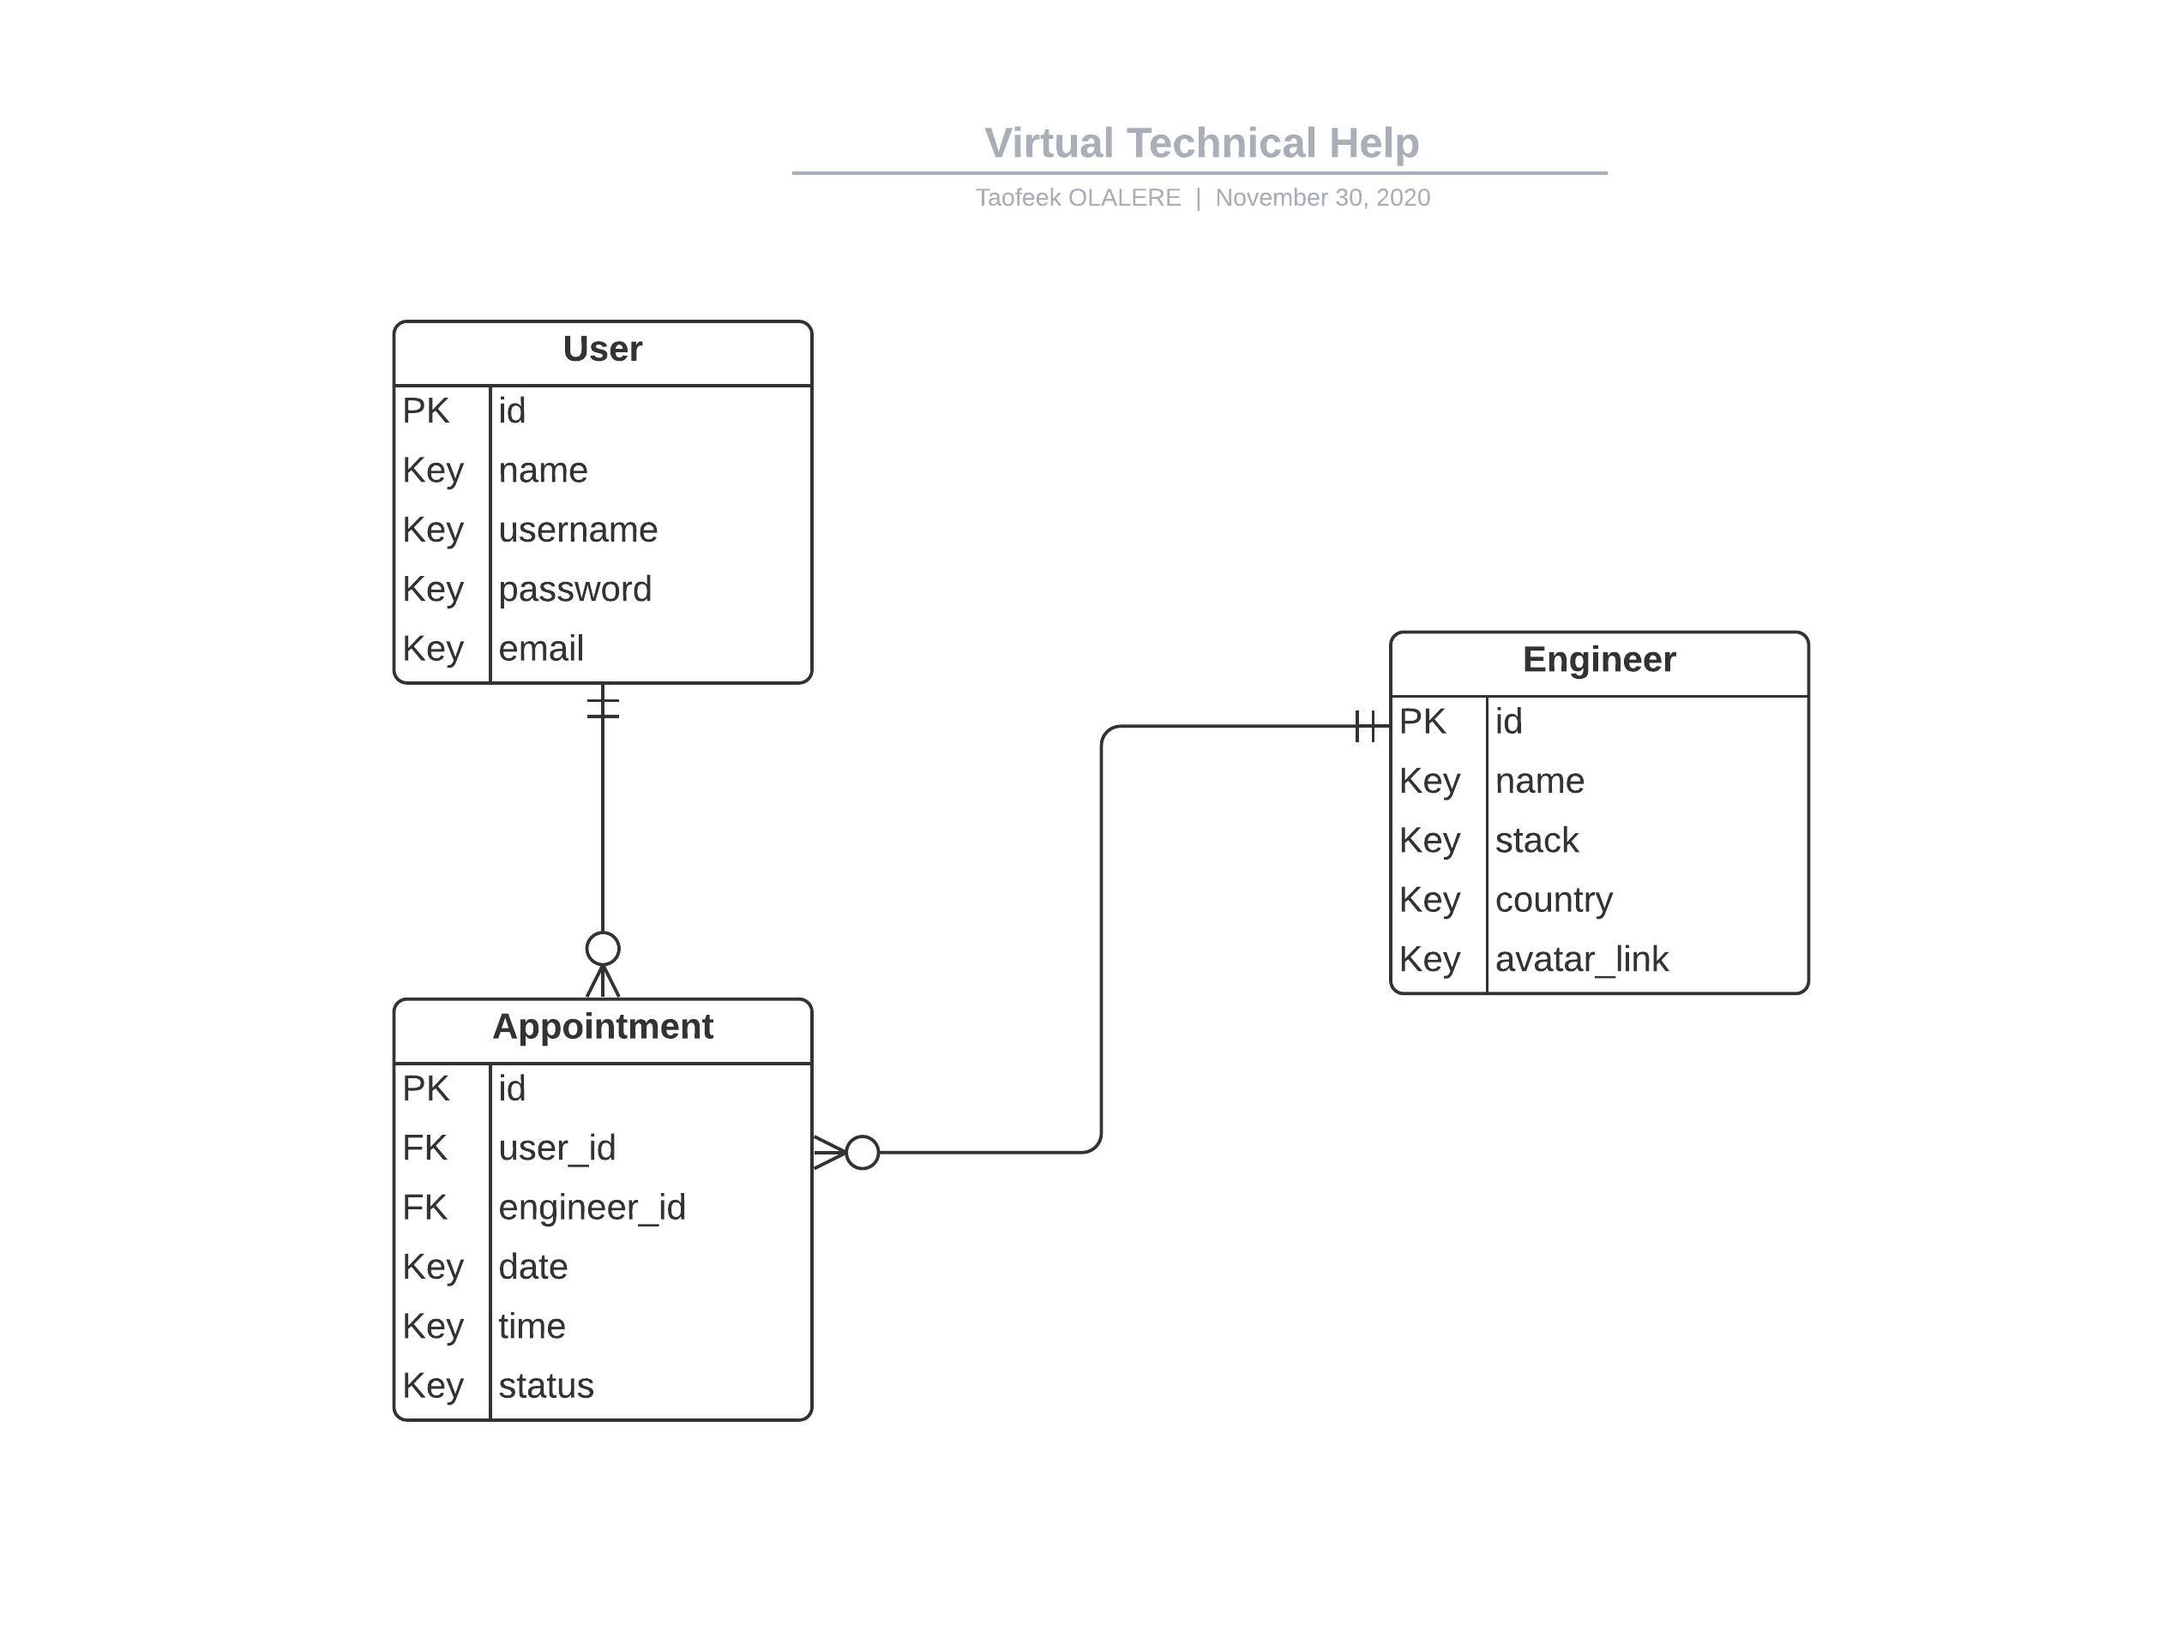
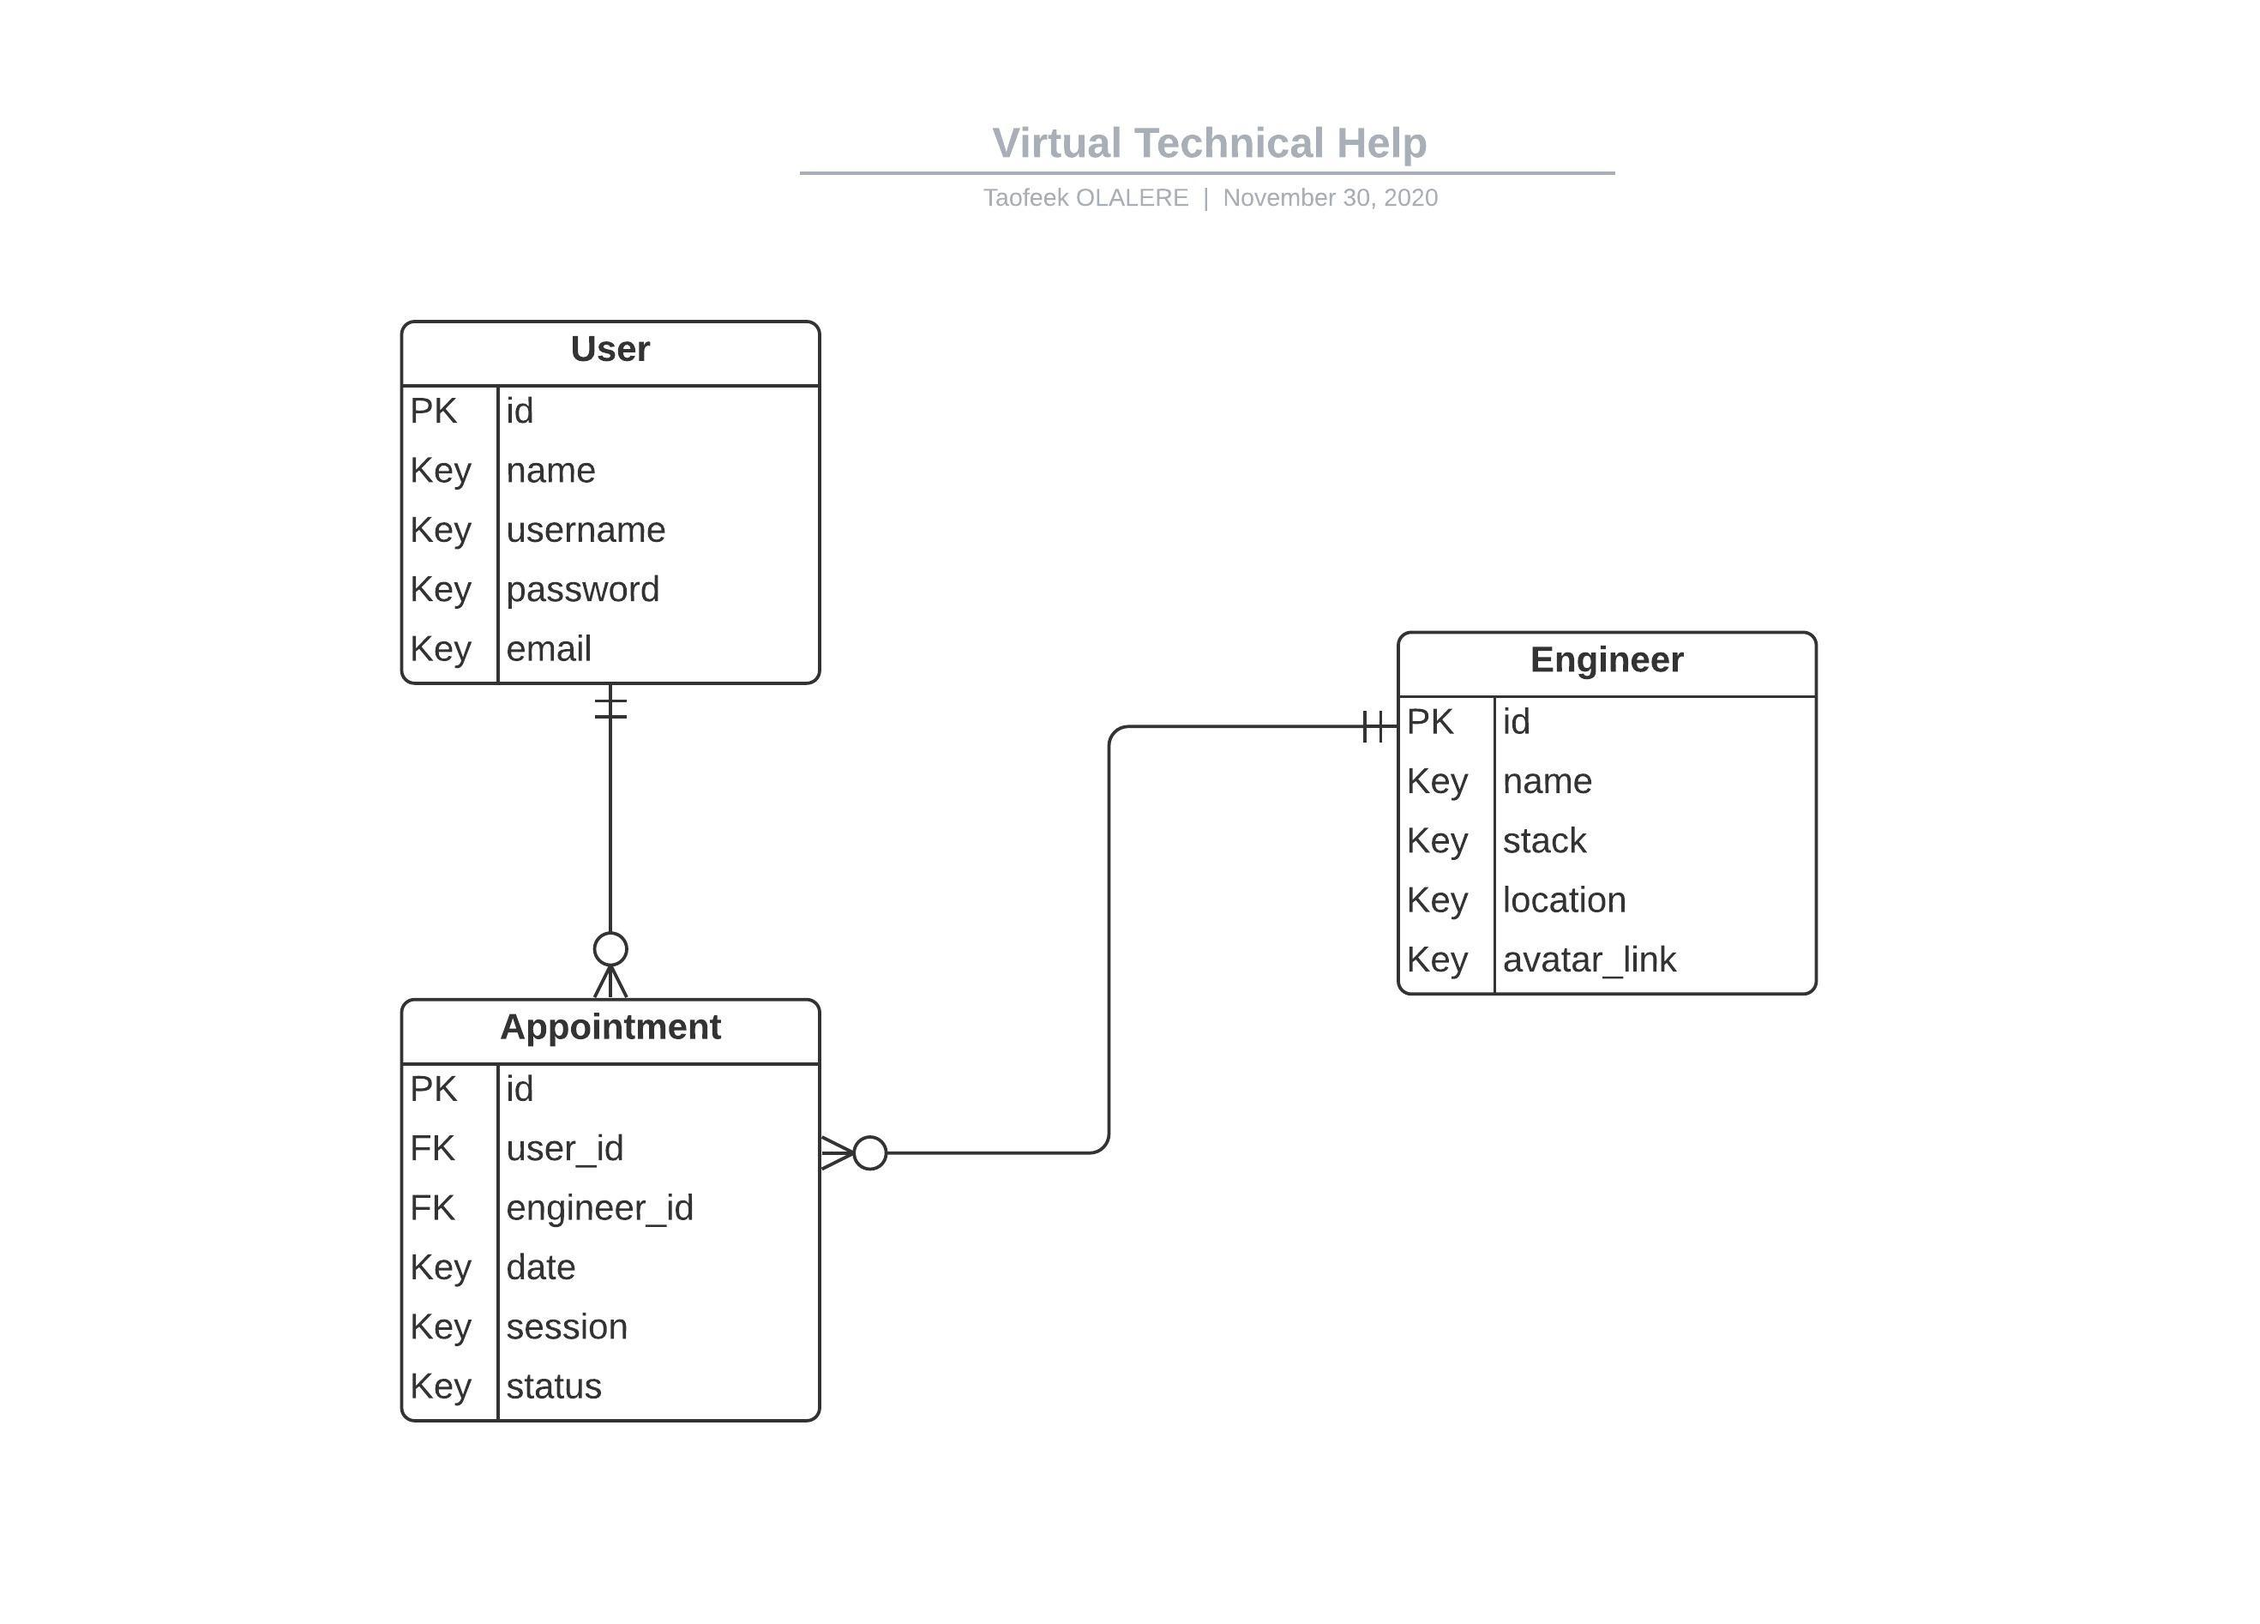
Add engineer and appointment models

diff --git a/spec/spec_helper.rb b/spec/spec_helper.rb
@@ -1,0 +1,96 @@
+# This file was generated by the `rails generate rspec:install` command. Conventionally, all
+# specs live under a `spec` directory, which RSpec adds to the `$LOAD_PATH`.
+# The generated `.rspec` file contains `--require spec_helper` which will cause
+# this file to always be loaded, without a need to explicitly require it in any
+# files.
+#
+# Given that it is always loaded, you are encouraged to keep this file as
+# light-weight as possible. Requiring heavyweight dependencies from this file
+# will add to the boot time of your test suite on EVERY test run, even for an
+# individual file that may not need all of that loaded. Instead, consider making
+# a separate helper file that requires the additional dependencies and performs
+# the additional setup, and require it from the spec files that actually need
+# it.
+#
+# See http://rubydoc.info/gems/rspec-core/RSpec/Core/Configuration
+RSpec.configure do |config|
+  # rspec-expectations config goes here. You can use an alternate
+  # assertion/expectation library such as wrong or the stdlib/minitest
+  # assertions if you prefer.
+  config.expect_with :rspec do |expectations|
+    # This option will default to `true` in RSpec 4. It makes the `description`
+    # and `failure_message` of custom matchers include text for helper methods
+    # defined using `chain`, e.g.:
+    #     be_bigger_than(2).and_smaller_than(4).description
+    #     # => "be bigger than 2 and smaller than 4"
+    # ...rather than:
+    #     # => "be bigger than 2"
+    expectations.include_chain_clauses_in_custom_matcher_descriptions = true
+  end
+
+  # rspec-mocks config goes here. You can use an alternate test double
+  # library (such as bogus or mocha) by changing the `mock_with` option here.
+  config.mock_with :rspec do |mocks|
+    # Prevents you from mocking or stubbing a method that does not exist on
+    # a real object. This is generally recommended, and will default to
+    # `true` in RSpec 4.
+    mocks.verify_partial_doubles = true
+  end
+
+  # This option will default to `:apply_to_host_groups` in RSpec 4 (and will
+  # have no way to turn it off -- the option exists only for backwards
+  # compatibility in RSpec 3). It causes shared context metadata to be
+  # inherited by the metadata hash of host groups and examples, rather than
+  # triggering implicit auto-inclusion in groups with matching metadata.
+  config.shared_context_metadata_behavior = :apply_to_host_groups
+
+# The settings below are suggested to provide a good initial experience
+# with RSpec, but feel free to customize to your heart's content.
+=begin
+  # This allows you to limit a spec run to individual examples or groups
+  # you care about by tagging them with `:focus` metadata. When nothing
+  # is tagged with `:focus`, all examples get run. RSpec also provides
+  # aliases for `it`, `describe`, and `context` that include `:focus`
+  # metadata: `fit`, `fdescribe` and `fcontext`, respectively.
+  config.filter_run_when_matching :focus
+
+  # Allows RSpec to persist some state between runs in order to support
+  # the `--only-failures` and `--next-failure` CLI options. We recommend
+  # you configure your source control system to ignore this file.
+  config.example_status_persistence_file_path = "spec/examples.txt"
+
+  # Limits the available syntax to the non-monkey patched syntax that is
+  # recommended. For more details, see:
+  #   - http://rspec.info/blog/2012/06/rspecs-new-expectation-syntax/
+  #   - http://www.teaisaweso.me/blog/2013/05/27/rspecs-new-message-expectation-syntax/
+  #   - http://rspec.info/blog/2014/05/notable-changes-in-rspec-3/#zero-monkey-patching-mode
+  config.disable_monkey_patching!
+
+  # Many RSpec users commonly either run the entire suite or an individual
+  # file, and it's useful to allow more verbose output when running an
+  # individual spec file.
+  if config.files_to_run.one?
+    # Use the documentation formatter for detailed output,
+    # unless a formatter has already been configured
+    # (e.g. via a command-line flag).
+    config.default_formatter = "doc"
+  end
+
+  # Print the 10 slowest examples and example groups at the
+  # end of the spec run, to help surface which specs are running
+  # particularly slow.
+  config.profile_examples = 10
+
+  # Run specs in random order to surface order dependencies. If you find an
+  # order dependency and want to debug it, you can fix the order by providing
+  # the seed, which is printed after each run.
+  #     --seed 1234
+  config.order = :random
+
+  # Seed global randomization in this process using the `--seed` CLI option.
+  # Setting this allows you to use `--seed` to deterministically reproduce
+  # test failures related to randomization by passing the same `--seed` value
+  # as the one that triggered the failure.
+  Kernel.srand config.seed
+=end
+end

diff --git a/spec/rails_helper.rb b/spec/rails_helper.rb
@@ -1,0 +1,90 @@
+# This file is copied to spec/ when you run 'rails generate rspec:install'
+require 'spec_helper'
+ENV['RAILS_ENV'] ||= 'test'
+
+require File.expand_path('../config/environment', __dir__)
+
+# require database cleaner at the top level
+require 'database_cleaner'
+
+# configure shoulda matchers to use rspec as the test framework and full matcher libraries for rails
+Shoulda::Matchers.configure do |config|
+  config.integrate do |with|
+    with.test_framework :rspec
+    with.library :rails
+  end
+end
+
+# Prevent database truncation if the environment is production
+abort('The Rails environment is running in production mode!') if Rails.env.production?
+require 'rspec/rails'
+# Add additional requires below this line. Rails is not loaded until this point!
+
+# Requires supporting ruby files with custom matchers and macros, etc, in
+# spec/support/ and its subdirectories. Files matching `spec/**/*_spec.rb` are
+# run as spec files by default. This means that files in spec/support that end
+# in _spec.rb will both be required and run as specs, causing the specs to be
+# run twice. It is recommended that you do not name files matching this glob to
+# end with _spec.rb. You can configure this pattern with the --pattern
+# option on the command line or in ~/.rspec, .rspec or `.rspec-local`.
+#
+# The following line is provided for convenience purposes. It has the downside
+# of increasing the boot-up time by auto-requiring all files in the support
+# directory. Alternatively, in the individual `*_spec.rb` files, manually
+# require only the support files necessary.
+#
+# Dir[Rails.root.join('spec', 'support', '**', '*.rb')].each { |f| require f }
+
+# Checks for pending migrations and applies them before tests are run.
+# If you are not using ActiveRecord, you can remove these lines.
+begin
+  ActiveRecord::Migration.maintain_test_schema!
+rescue ActiveRecord::PendingMigrationError => e
+  puts e.to_s.strip
+  exit 1
+end
+RSpec.configure do |config|
+  # Remove this line if you're not using ActiveRecord or ActiveRecord fixtures
+  config.fixture_path = "#{::Rails.root}/spec/fixtures"
+
+  # add `FactoryBot` methods
+  config.include FactoryBot::Syntax::Methods
+
+  # start by truncating all the tables but then use the faster transaction strategy the rest of the time.
+  config.before(:suite) do
+    DatabaseCleaner.clean_with(:truncation)
+    DatabaseCleaner.strategy = :transaction
+  end
+
+  # start the transaction strategy as examples are run
+  config.around(:each) do |example|
+    DatabaseCleaner.cleaning do
+      example.run
+    end
+  end
+
+  # If you're not using ActiveRecord, or you'd prefer not to run each of your
+  # examples within a transaction, remove the following line or assign false
+  # instead of true.
+  config.use_transactional_fixtures = true
+
+  # RSpec Rails can automatically mix in different behaviours to your tests
+  # based on their file location, for example enabling you to call `get` and
+  # `post` in specs under `spec/controllers`.
+  #
+  # You can disable this behaviour by removing the line below, and instead
+  # explicitly tag your specs with their type, e.g.:
+  #
+  #     RSpec.describe UsersController, :type => :controller do
+  #       # ...
+  #     end
+  #
+  # The different available types are documented in the features, such as in
+  # https://relishapp.com/rspec/rspec-rails/docs
+  config.infer_spec_type_from_file_location!
+
+  # Filter lines from Rails gems in backtraces.
+  config.filter_rails_from_backtrace!
+  # arbitrary gems may also be filtered via:
+  # config.filter_gems_from_backtrace("gem name")
+end

diff --git a/db/schema.rb b/db/schema.rb
@@ -10,10 +10,31 @@
 #
 # It's strongly recommended that you check this file into your version control system.
 
-ActiveRecord::Schema.define(version: 2020_11_30_145438) do
+ActiveRecord::Schema.define(version: 2020_11_30_184537) do
 
   # These are extensions that must be enabled in order to support this database
   enable_extension "plpgsql"
+
+  create_table "appointments", force: :cascade do |t|
+    t.date "date"
+    t.string "session"
+    t.string "status"
+    t.bigint "user_id", null: false
+    t.bigint "engineer_id", null: false
+    t.datetime "created_at", precision: 6, null: false
+    t.datetime "updated_at", precision: 6, null: false
+    t.index ["engineer_id"], name: "index_appointments_on_engineer_id"
+    t.index ["user_id"], name: "index_appointments_on_user_id"
+  end
+
+  create_table "engineers", force: :cascade do |t|
+    t.string "name"
+    t.string "stack"
+    t.string "location"
+    t.string "avatar_link"
+    t.datetime "created_at", precision: 6, null: false
+    t.datetime "updated_at", precision: 6, null: false
+  end
 
   create_table "users", force: :cascade do |t|
     t.string "name"
@@ -24,4 +45,6 @@ ActiveRecord::Schema.define(version: 2020_11_30_145438) do
     t.datetime "updated_at", precision: 6, null: false
   end
 
+  add_foreign_key "appointments", "engineers"
+  add_foreign_key "appointments", "users"
 end

diff --git a/db/migrate/20201130184537_create_appointments.rb b/db/migrate/20201130184537_create_appointments.rb
@@ -1,0 +1,13 @@
+class CreateAppointments < ActiveRecord::Migration[6.0]
+  def change
+    create_table :appointments do |t|
+      t.date :date
+      t.string :session
+      t.string :status
+      t.references :user, null: false, foreign_key: true
+      t.references :engineer, null: false, foreign_key: true
+
+      t.timestamps
+    end
+  end
+end

diff --git a/db/migrate/20201130184216_create_engineers.rb b/db/migrate/20201130184216_create_engineers.rb
@@ -1,0 +1,12 @@
+class CreateEngineers < ActiveRecord::Migration[6.0]
+  def change
+    create_table :engineers do |t|
+      t.string :name
+      t.string :stack
+      t.string :location
+      t.string :avatar_link
+
+      t.timestamps
+    end
+  end
+end

diff --git a/spec/models/appointment_spec.rb b/spec/models/appointment_spec.rb
@@ -1,0 +1,5 @@
+require 'rails_helper'
+
+RSpec.describe Appointment, type: :model do
+  pending "add some examples to (or delete) #{__FILE__}"
+end

diff --git a/spec/models/engineer_spec.rb b/spec/models/engineer_spec.rb
@@ -1,0 +1,5 @@
+require 'rails_helper'
+
+RSpec.describe Engineer, type: :model do
+  pending "add some examples to (or delete) #{__FILE__}"
+end

diff --git a/spec/models/user_spec.rb b/spec/models/user_spec.rb
@@ -1,0 +1,5 @@
+require 'rails_helper'
+
+RSpec.describe User, type: :model do
+  pending "add some examples to (or delete) #{__FILE__}"
+end

diff --git a/app/models/appointment.rb b/app/models/appointment.rb
@@ -1,0 +1,4 @@
+class Appointment < ApplicationRecord
+  belongs_to :user
+  belongs_to :engineer
+end

diff --git a/app/models/engineer.rb b/app/models/engineer.rb
@@ -1,0 +1,2 @@
+class Engineer < ApplicationRecord
+end
